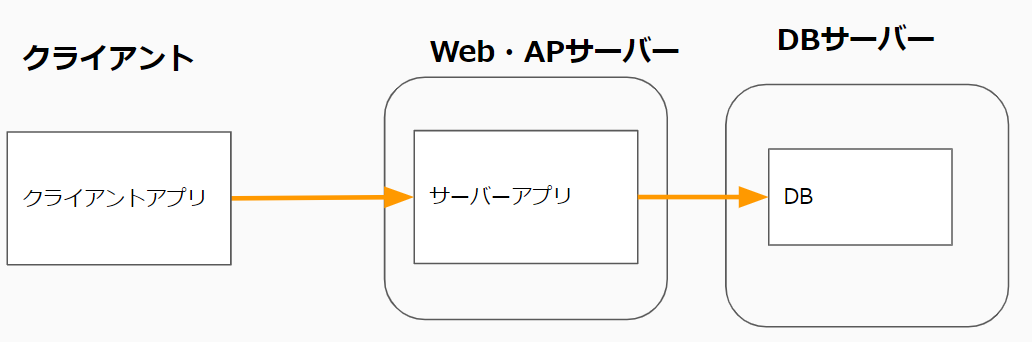
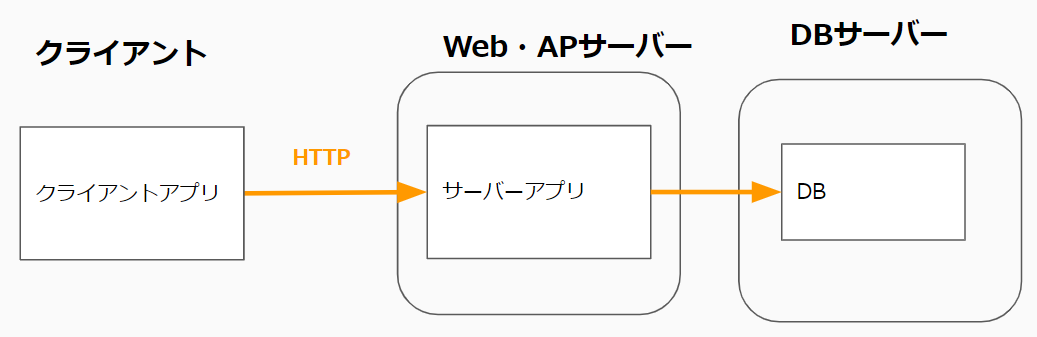
追記

diff --git a/クライアントアプリ/クライアントアプリとは.md b/クライアントアプリ/クライアントアプリとは.md
@@ -1,67 +1,89 @@
 
 ## クライアントアプリとは
+クライアント端末上で動作するプログラム。  
+クライアント端末にプログラム実行ファイル(exeなど)を配置(インストール)して実行する。  
 
-クライアント端末上で動作するプログラム。
-クライアント端末にプログラム実行ファイル(exeなど)を配置(インストール)して実行する。
-
-Windowsの場合、VisualStudio、Excel、Teamsなどはクライアントアプリ。
-iPhoneやAndroidスマホ上で動作するアプリもクライアントアプリ。
-
+Windowsの場合、VisualStudio、Excel、Teamsなどはクライアントアプリ。  
+iPhoneやAndroidスマホ上で動作するアプリもクライアントアプリ。  
 
 ## クライアントアプリの形態
 
 ### ①サーバー側プログラムが存在しHTTPで通信を行う形式
-クライアントアプリがブラウザの代わりになるイメージ。
-広く配布するアプリは大体この形式。
-
-
-<img src="画像/クライアント形式1.png" style="width:680px;">
+クライアントアプリがブラウザの代わりになるイメージ。  
+広く配布するアプリは大体この形式。  
+<img src="画像/クライアント形式1.png">
 
 #### メリット
-- セキュリティが確保しやすい。
-DBの接続情報をクライアントアプリが持たなくて良い。
+- セキュリティ面   
+DBの接続情報をクライアントアプリが持たなくて良い。  
+DBを外部に公開する必要が無い。  
 
-- プログラム変更時の対応が少し楽
-サーバー側プログラムだけの修正で済む場合、クライアントアプリを再インストールしてもらう必要が無い。
+- プログラム変更時の対応が少し楽  
+サーバー側プログラムだけの修正で済む場合、クライアントアプリを再インストールしてもらう必要が無い。  
 
 #### デメリット
-- サーバー側も作る分、工数が掛かる。  
+- コスト面
+サーバー側も作る分、工数が掛かる。   
 HTTP(s)での通信機能をクライアントアプリ側に実装する必要がある。  
-(認証情報の持ち方なども考慮する必要がある。)
+(認証情報の持ち方なども考慮する必要がある。)  
+サーバーマシンも用意する必要がある。  
 
 
 ### ②サーバー側プログラムが存在せず、クライアントアプリが直接DBに接続する形式
-社内ネットワークでのみ使われるアプリだとこのケースがある。
-(クライアント端末もDBサーバも社内ネットワークにあり、DBとの通信が社内ネットワーク内しか通らない。)
-
-<img src="画像/クライアント形式2.png" style="width:680px;">
+社内ネットワークでのみ使われるアプリだとこのケースがある。  
+(クライアント端末もDBサーバも社内ネットワークにあり、DBとの通信が社内ネットワーク内しか通らない。)  
+<img src="画像/クライアント形式2.png">
 
 #### メリット
-- 実装コスト  
-クライアントアプリのみで済むため実装コストが少ない
+- コスト面   
+クライアントアプリのみで済むため実装コストが少ない。  
+サーバーマシンを用意する必要も無い。
 
 
 #### デメリット
-- セキュリティ面
-社外にも配布する場合、DBを社外からもアクセスできる位置に配置するのは危険な為、この形式は選択できない。  
-その場合はWeb・APPサーバーを間にはさんだ①の形式となる。
+- セキュリティ面  
+社外にも配布する場合、DBを社外からもアクセスできる位置に配置しなくてはならず、危険。  
+社外からアクセスされる場合はWeb・APPサーバーを間にはさんだ①の形式にする必要がある。  
 
-- プログラム変更時の対応
-プログラムを少し変えただけでクライアントの再インストールが必要となる。
+- プログラム変更時の対応  
+プログラムを少し変えただけでクライアントの再インストールが必要となる。  
 
 
+### ③クライアントアプリがDBを内包する形式  
+DBを複数クライアントで共有する必要が無い場合、クライアントアプリだけが使うDBを内包する形式にする場合がある。  
+その際よく使われるDBは「SQLite」。  
+<img src="画像/クライアント形式3.png">
 
-### ③クライアントアプリがDBを内包する形式
-DBを複数クライアントで共有する必要が無い場合、クライアントアプリだけが使うDBを内包する形式にする場合がある。
-その際よく使われるDBは「SQLite」
+DBを共有する必要がある場合はこの形式には出来ない。  
 
-<img src="画像/クライアント形式3.png" style="width:680px;">
+※SQLiteについて  
+必要最小限の機能に絞ったDBで軽量。
+ライブラリとして提供される。  
+(C#ならdllで提供される。)  
+- 出来ること  
+SQL文の実行やトランザクション制御など、基本的なDBの機能。  
 
-DBを共有する必要がある場合はこの形式には出来ない。
+
+- 出来ないこと  
+複数クライアントからの同時書き込み不可。    
+レプリケーション、スケジュールされたバックアップなど運用面の機能もない。  
+
 
 ### ④DBを持たない形式
-簡単なアプリならDBすらないこともある。
-業務アプリだとほぼ無いかも。
+簡単なアプリならDBすらないこともある。  
+(ストップウォッチアプリとか）  
+業務アプリだとほぼ無いかも。  
 
 
+## Webアプリとクライアントアプリの使い分け
+
+Webアプリとクライアントアプリの主な違いは以下になります。  
+
+|    |  Webアプリ  |  クライアントアプリ  |
+| ---- | ---- | ---- |
+| 導入のしやすさ | ○<br>ブラウザさえあればよい。 | ×<br>アプリの実行ファイル(exeなど)を配布する必要がある。<br>またアプリの開発言語に対応する実行環境(.NETFrameworkやJAVA SDK)もクライアントにインストールしてもらう必要がある。|
+| 出来ること | △<br>大体のことは出来るが、一部実現できない機能がある。<br>例えば、<br>・印刷関係の機能<br>・クライアントのローカルファイルにアクセスする機能<br>・（スマホアプリの場合）カメラやセンサーなどを制御する機能 | ○<br>Webで出来ない機能もクライアントアプリなら実現可能。 |
+
+Webアプリのほうが手軽な為、優先度は高いです。  
+Webアプリでも実現できる場合はWebアプリで、出来ないものはクライアプリで実装、とすることが多いです。    
 
